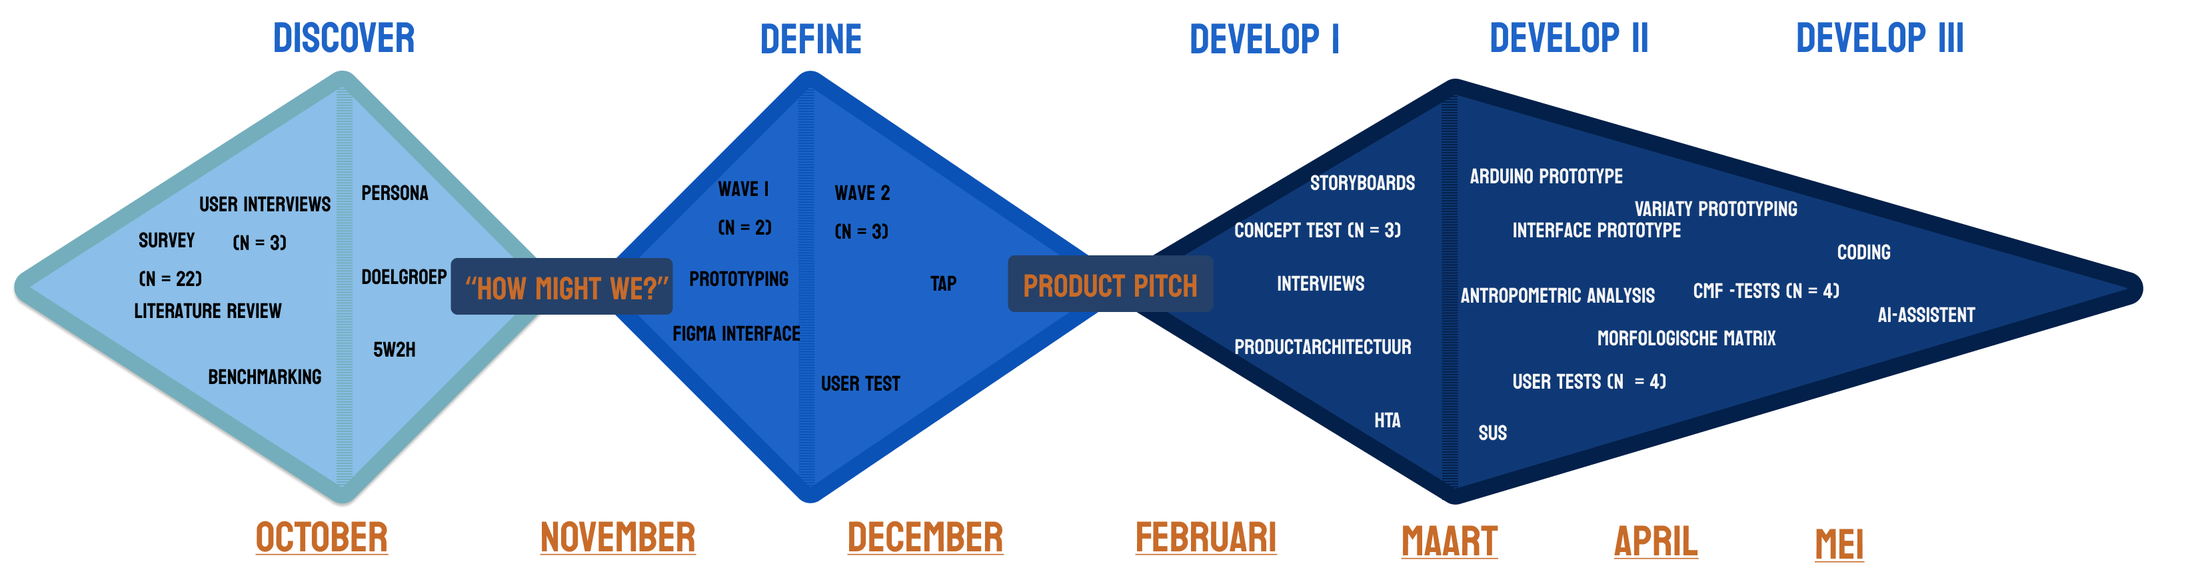
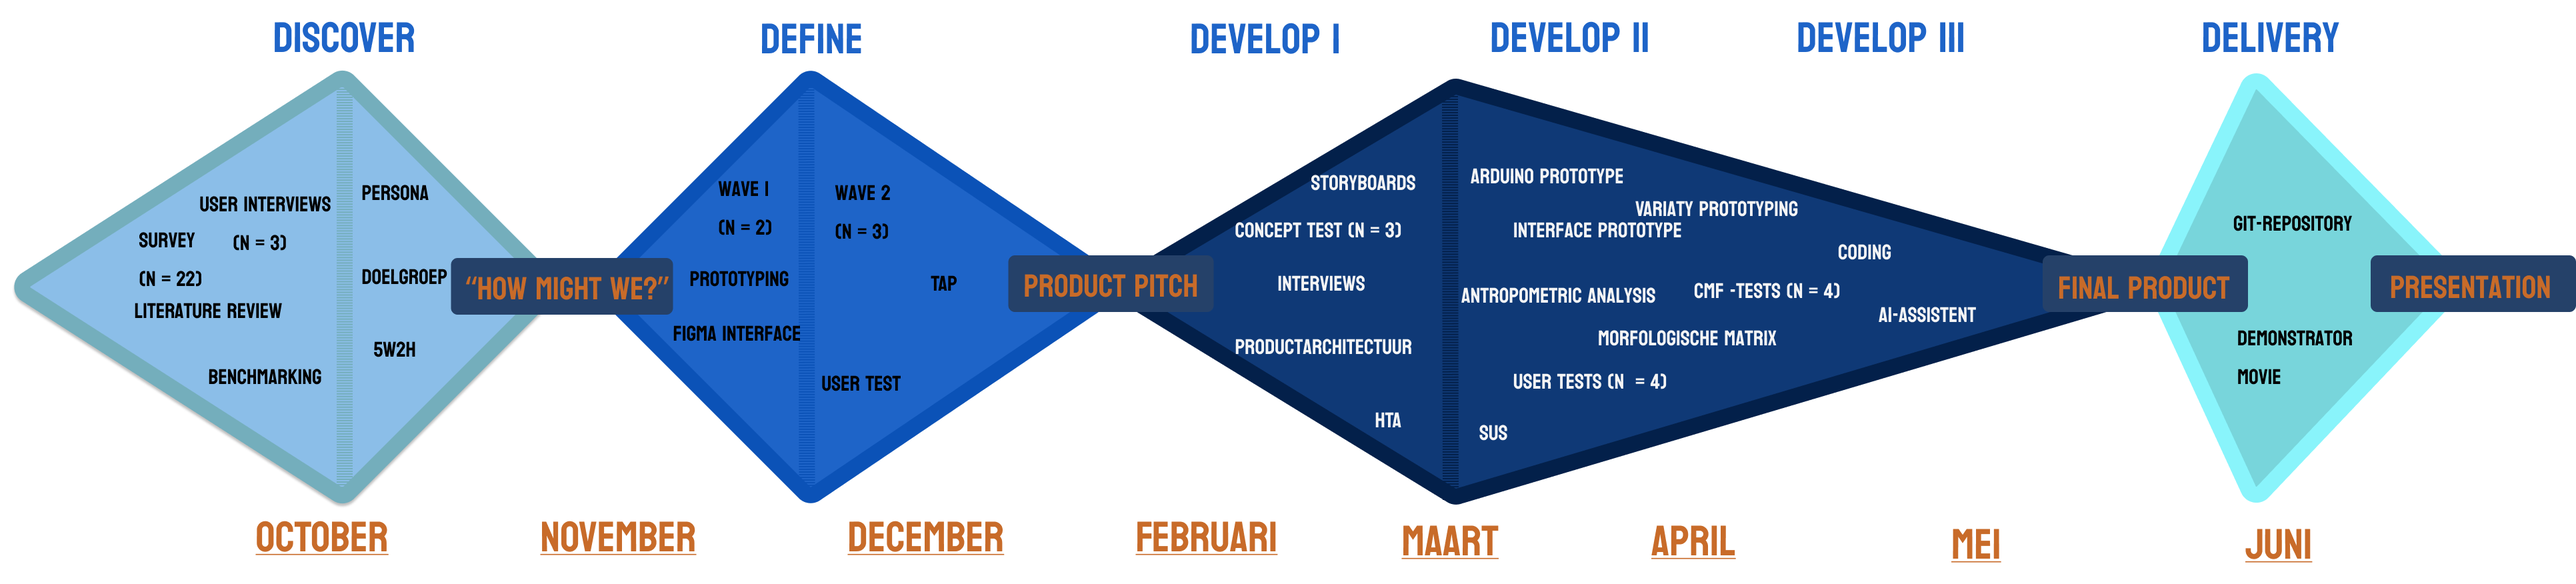
methodologie

diff --git a/docs/methodologie.md b/docs/methodologie.md
@@ -13,4 +13,6 @@ Het tweede deel van de Develop-fase draait vooral rond het antropometrische aspe
 
 Het derde en laatste deel van deze fase focust zich op de CMF(Color, Material, Finishes) van het product. Verder wordt het emotioneel afspect achter deze pijlers onderzocht. Door vele prototype varianten te maken en deze af te wegen ten opzicht van elkaar tijdens gebruikerstesten ontstaat er een verfijnd product. Tijdens de testen wordt het Thinking-Aloud protocol toegepast. Een hulpmiddelen tijdens deze testen is een morfologische CMF-matrix. Hiervan worden de opties beoordeelt via een evaluatievragenlijst om de voorkeuren te kwantificeren. Na deze fase kan er volop gewerkt worden aan het finale product.
 
+Ten slotte volgt de Delivery-fase. Hierin wordt het project afgewerkt en de demonstrator movie gemonteerd.
+
 ![TripleDiamondSem2](/img/Group2.png)
